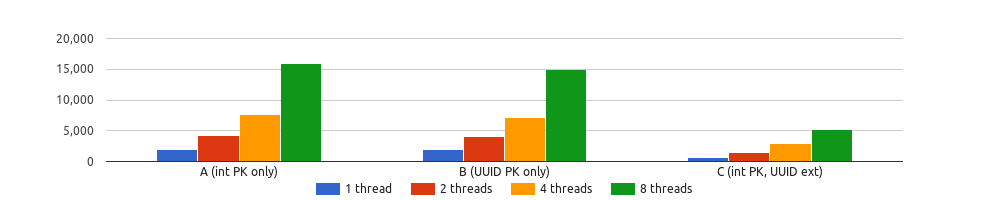
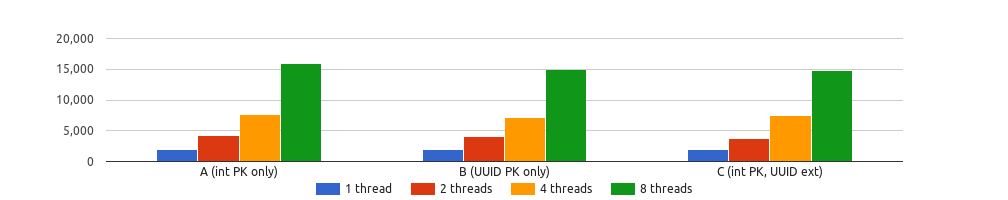
Correct PostgreSQL schema design C indexes
After analyzing the numbers for the PostgreSQL schema design "C"
scenario results, I saw an anomaly that seemed odd. The benchmark
numbers for the schema design "C" were much lower than design "B" or
"A", especially for the lookup_orders_by_customer scenario.

I setup DBs for both the "C" and "B" schema designs and ran EXPLAIN
SELECT on the particular query issued in the lookup_orders_by_customer
scenario and noted that a sequential scan of the customers table was
being done when an index on the customers.uuid column should have been
used. Turns out I had forgotten to manually create the indexes on the
uuid columns for PostgreSQL and schema design "C". So, I added those
indexes into the prepare stage and re-ran the benchmarks for the "C"
schema design.

This patch updates the images and results after that run.

Issue #4

Changed region(s): [[0.6766, 0.33, 0.8611, 0.81]]

diff --git a/db/uuid-vs-integer.md b/db/uuid-vs-integer.md
@@ -500,7 +500,7 @@ tables within a single transaction.
 | --------------------------------- | ------------:| -----------:| -----------:| -----------:|
 | A (auto-increment PKs no UUID)    |        88.19 |      181.25 |      401.69 |      759.64 |
 | B (UUID PKs only)                 |        85.04 |      184.81 |      427.15 |      723.35 |
-| C (auto-increment PK, ext UUID)   |        96.41 |      175.39 |      386.38 |      688.36 |
+| C (auto-increment PK, ext UUID)   |        94.53 |      185.23 |      409.03 |      700.94 |
 
 #### `customer_new_order` TPS / PostgreSQL / Medium DB size
 
@@ -510,7 +510,7 @@ tables within a single transaction.
 | --------------------------------- | ------------:| -----------:| -----------:| -----------:|
 | A (auto-increment PKs no UUID)    |        85.26 |      167.98 |      370.44 |      717.92 |
 | B (UUID PKs only)                 |        80.66 |      167.91 |      371.69 |      689.94 |
-| C (auto-increment PK, ext UUID)   |        81.99 |      166.19 |      330.37 |      650.61 |
+| C (auto-increment PK, ext UUID)   |        82.44 |      170.41 |      340.48 |      694.29 |
 
 #### `customer_new_order` TPS / PostgreSQL / Large DB size
 
@@ -520,7 +520,7 @@ tables within a single transaction.
 | --------------------------------- | ------------:| -----------:| -----------:| -----------:|
 | A (auto-increment PKs no UUID)    |        66.07 |      126.03 |      240.17 |      480.51 |
 | B (UUID PKs only)                 |        65.23 |      124.42 |      239.46 |      457.44 |
-| C (auto-increment PK, ext UUID)   |        69.72 |      129.06 |      234.26 |      451.71 |
+| C (auto-increment PK, ext UUID)   |        64.40 |      124.48 |      230.29 |      468.28 |
 
 ### Order counts per status results
 
@@ -571,7 +571,7 @@ using a secondary index on the column involved in the grouping expression
 | --------------------------------- | ------------:| -----------:| -----------:| -----------:|
 | A (auto-increment PKs no UUID)    |      1254.54 |     2996.22 |     5668.34 |    10450.70 |
 | B (UUID PKs only)                 |      1439.05 |     2849.36 |     5468.08 |    10473.11 |
-| C (auto-increment PK, ext UUID)   |      1413.96 |     2804.26 |     5845.19 |    10137.10 |
+| C (auto-increment PK, ext UUID)   |      1455.38 |     2875.40 |     5527.62 |    10248.12 |
 
 #### `order_counts_by_status` QPS / PostgreSQL / Medium DB size
 
@@ -581,7 +581,7 @@ using a secondary index on the column involved in the grouping expression
 | --------------------------------- | ------------:| -----------:| -----------:| -----------:|
 | A (auto-increment PKs no UUID)    |       466.88 |      946.12 |     2043.78 |     3406.51 |
 | B (UUID PKs only)                 |       457.35 |      872.31 |     1953.07 |     3412.37 |
-| C (auto-increment PK, ext UUID)   |       459.43 |      885.15 |     2074.98 |     3341.03 |
+| C (auto-increment PK, ext UUID)   |       453.27 |      899.54 |     2036.88 |     3284.91 |
 
 #### `order_counts_by_status` QPS / PostgreSQL / Large DB size
 
@@ -591,7 +591,7 @@ using a secondary index on the column involved in the grouping expression
 | --------------------------------- | ------------:| -----------:| -----------:| -----------:|
 | A (auto-increment PKs no UUID)    |        43.38 |       84.24 |      158.37 |      249.28 |
 | B (UUID PKs only)                 |        43.37 |       81.41 |      165.51 |      246.39 |
-| C (auto-increment PK, ext UUID)   |        42.48 |       81.51 |      160.56 |      238.72 |
+| C (auto-increment PK, ext UUID)   |        42.13 |       83.65 |      162.79 |      240.66 |
 
 ### Lookup customer orders results
 
@@ -642,7 +642,7 @@ along with an aggregate operation across a set of records in the
 | --------------------------------- | ------------:| -----------:| -----------:| -----------:|
 | A (auto-increment PKs no UUID)    |      5535.84 |    10517.41 |    23550.26 |    40626.90 |
 | B (UUID PKs only)                 |      5398.67 |    10588.56 |    22427.03 |    40596.57 |
-| C (auto-increment PK, ext UUID)   |       802.29 |     1710.87 |     4067.06 |     6856.10 |
+| C (auto-increment PK, ext UUID)   |      4992.97 |    10000.48 |    20384.42 |    38204.45 |
 
 #### `lookup_orders_by_customer` QPS / PostgreSQL / Medium DB size
 
@@ -652,7 +652,7 @@ along with an aggregate operation across a set of records in the
 | --------------------------------- | ------------:| -----------:| -----------:| -----------:|
 | A (auto-increment PKs no UUID)    |      4950.84 |     9455.83 |    21038.52 |    36402.19 |
 | B (UUID PKs only)                 |      4877.40 |     9420.81 |    20228.23 |    36158.88 |
-| C (auto-increment PK, ext UUID)   |       813.73 |     1677.86 |     3931.42 |     6702.27 |
+| C (auto-increment PK, ext UUID)   |      4769.36 |     9672.92 |    18087.29 |    34486.62 |
 
 #### `lookup_orders_by_customer` QPS / PostgreSQL / Large DB size
 
@@ -662,7 +662,7 @@ along with an aggregate operation across a set of records in the
 | --------------------------------- | ------------:| -----------:| -----------:| -----------:|
 | A (auto-increment PKs no UUID)    |      1920.31 |     4170.13 |     7712.94 |    15930.49 |
 | B (UUID PKs only)                 |      1901.57 |     4093.66 |     7169.58 |    14934.87 |
-| C (auto-increment PK, ext UUID)   |       656.69 |     1388.59 |     2946.66 |     5192.11 |
+| C (auto-increment PK, ext UUID)   |      1993.65 |     3768.92 |     7484.78 |    14854.96 |
 
 ### Lookup most popular items results
 
@@ -712,7 +712,7 @@ table and `JOIN` operations to multiple tables including the `products` and
 | --------------------------------- | ------------:| -----------:| -----------:| -----------:|
 | A (auto-increment PKs no UUID)    |        87.55 |      173.34 |      337.37 |      512.03 |
 | B (UUID PKs only)                 |        78.98 |      156.74 |      295.90 |      446.05 |
-| C (auto-increment PK, ext UUID)   |        87.79 |      176.07 |      338.43 |      514.26 |
+| C (auto-increment PK, ext UUID)   |        87.94 |      173.78 |      317.02 |      484.17 |
 
 #### `popular_items` QPS / PostgreSQL / Medium DB size
 
@@ -722,7 +722,7 @@ table and `JOIN` operations to multiple tables including the `products` and
 | --------------------------------- | ------------:| -----------:| -----------:| -----------:|
 | A (auto-increment PKs no UUID)    |        19.12 |       37.78 |       69.72 |      106.62 |
 | B (UUID PKs only)                 |        13.51 |       26.21 |       48.32 |       71.11 |
-| C (auto-increment PK, ext UUID)   |        19.13 |       37.65 |       69.78 |      106.21 |
+| C (auto-increment PK, ext UUID)   |        18.92 |       36.71 |       68.75 |      104.27 |
 
 #### `popular_items` QPS / PostgreSQL / Large DB size
 
@@ -732,7 +732,7 @@ table and `JOIN` operations to multiple tables including the `products` and
 | --------------------------------- | ------------:| -----------:| -----------:| -----------:|
 | A (auto-increment PKs no UUID)    |         0.38 |        0.68 |        1.35 |        1.95 |
 | B (UUID PKs only)                 |         0.30 |        0.57 |        1.03 |        1.50 |
-| C (auto-increment PK, ext UUID)   |         0.38 |        0.74 |        1.32 |        2.00 |
+| C (auto-increment PK, ext UUID)   |         0.38 |        0.72 |        1.34 |        1.97 |
 
 ## Conclusions
 
